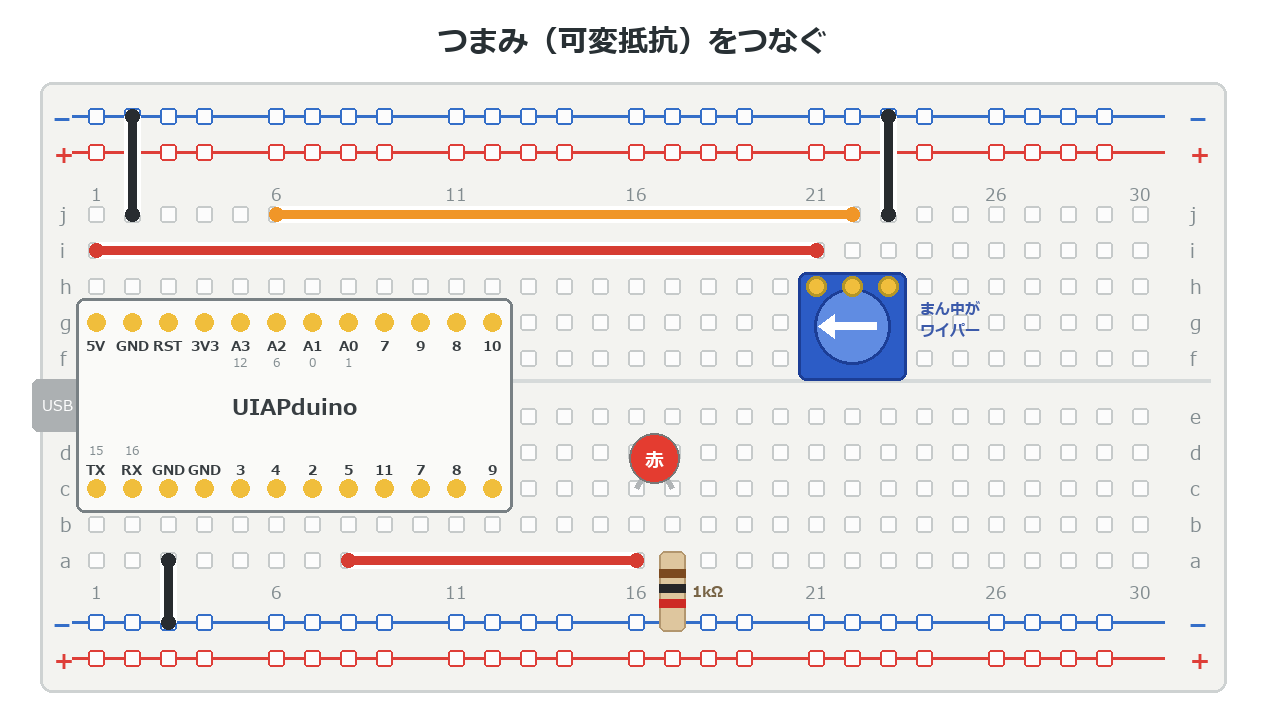
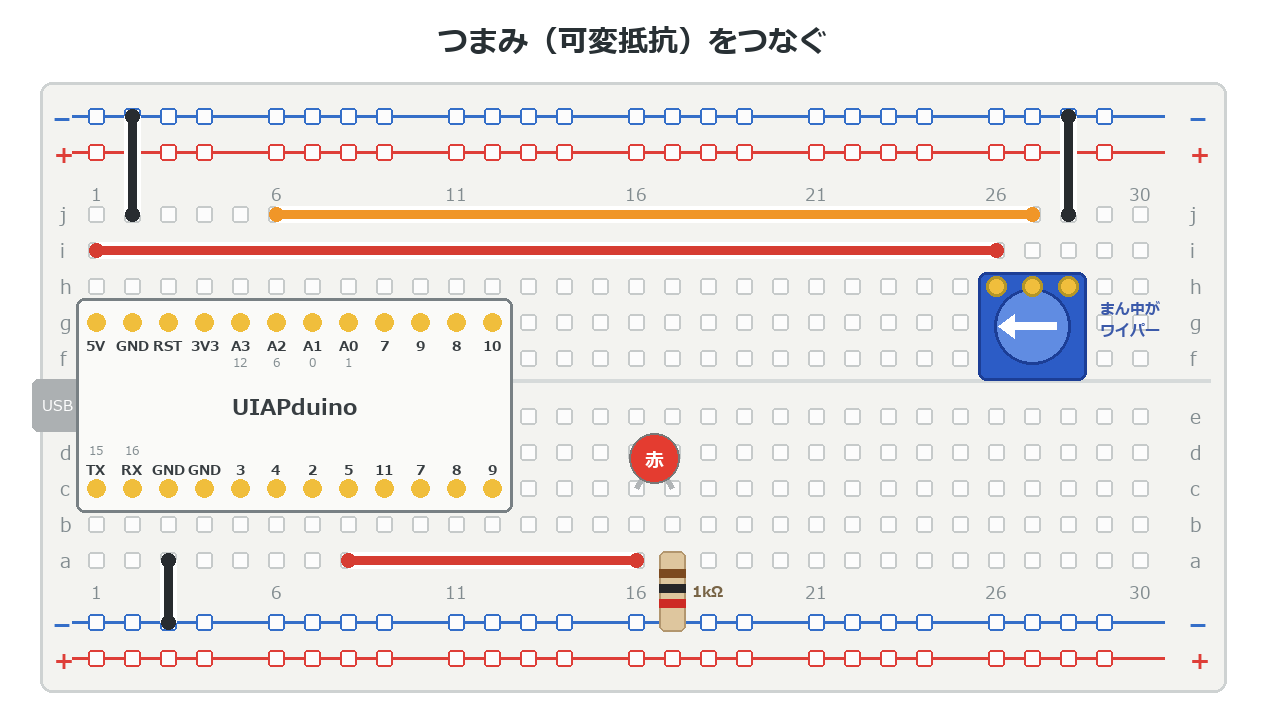
b4 のつまみを 26〜28列にし、GND の黒い線を b3 と同じ 28列にした
b3 から続けるとき、スイッチと青い線を抜いて同じ場所につまみをさせば、
28列の黒い線（→ 上の −レール）をそのまま使える。足すのは 5V と A2 の2本だけ。
ボードの GND・LED の配線は b3 と同じ。本文にもその手順を書いた。

Changed region(s): [[0.6161, 0.3428, 0.9242, 0.5609], [0.6777, 0.1558, 0.8626, 0.3116]]

diff --git a/docs/b4_analog/index.html b/docs/b4_analog/index.html
@@ -82,7 +82,8 @@
 2. 反対のはしを **GND** につなぐ
 3. **まん中の足**を **A2** につなぐ
 
-> ⚠ まん中が読みとる線。両はしは**逆でもOK**（回す向きが逆になるだけ）。
+> b3 から続けるなら、スイッチと青い線を抜いて、**同じ場所**につまみをさそう。
+> 28列の黒い線はそのまま使えるよ。両はしは**逆でもOK**。
 
 :::
 

diff --git a/tools/fig_bb_vr.py b/tools/fig_bb_vr.py
@@ -14,13 +14,14 @@ im, d = new("つまみ（可変抵抗）をつなぐ")
 board(d)
 mcu(d)
 
-# つまみ：端子は h行の 21・22・23列
-vr(d, 21, "h")
+# つまみ：端子は h行の 26・27・28列（b3 のスイッチがあった場所）。
+# 右はし（GND）を 28列にすると、b3 の黒い線（28列 → 上の − レール）をそのまま使える。
+vr(d, 26, "h")
 # 5V は i行、A2 は j行。逆にすると 5V の線が GND のジャンパーと
 # 交差して、つながっているように見えてしまう
-wire(d, (1, "i"), (21, "i"), RED)        # 5V     → つまみの左はし
-wire(d, (6, "j"), (22, "j"), ORANGE)     # A2     → まん中（ワイパー）
-wire(d, (23, "j"), (23, "-t"), BLACK)    # 右はし → 上の − レール
+wire(d, (1, "i"), (26, "i"), RED)        # 5V     → つまみの左はし
+wire(d, (6, "j"), (27, "j"), ORANGE)     # A2     → まん中（ワイパー）
+wire(d, (28, "j"), (28, "-t"), BLACK)    # 右はし → 上の − レール（b3 と同じ線）
 wire(d, (2, "j"), (2, "-t"), BLACK)      # GND    → 上の − レール
 
 # LED（基本編①のまま）：5番ピン → LED → 1kΩ → 下の − レール

diff --git a/content/b4_analog/index.md b/content/b4_analog/index.md
@@ -68,7 +68,8 @@ wip: 写真まち
 2. 反対のはしを **GND** につなぐ
 3. **まん中の足**を **A2** につなぐ
 
-> ⚠ まん中が読みとる線。両はしは**逆でもOK**（回す向きが逆になるだけ）。
+> b3 から続けるなら、スイッチと青い線を抜いて、**同じ場所**につまみをさそう。
+> 28列の黒い線はそのまま使えるよ。両はしは**逆でもOK**。
 
 :::
 
